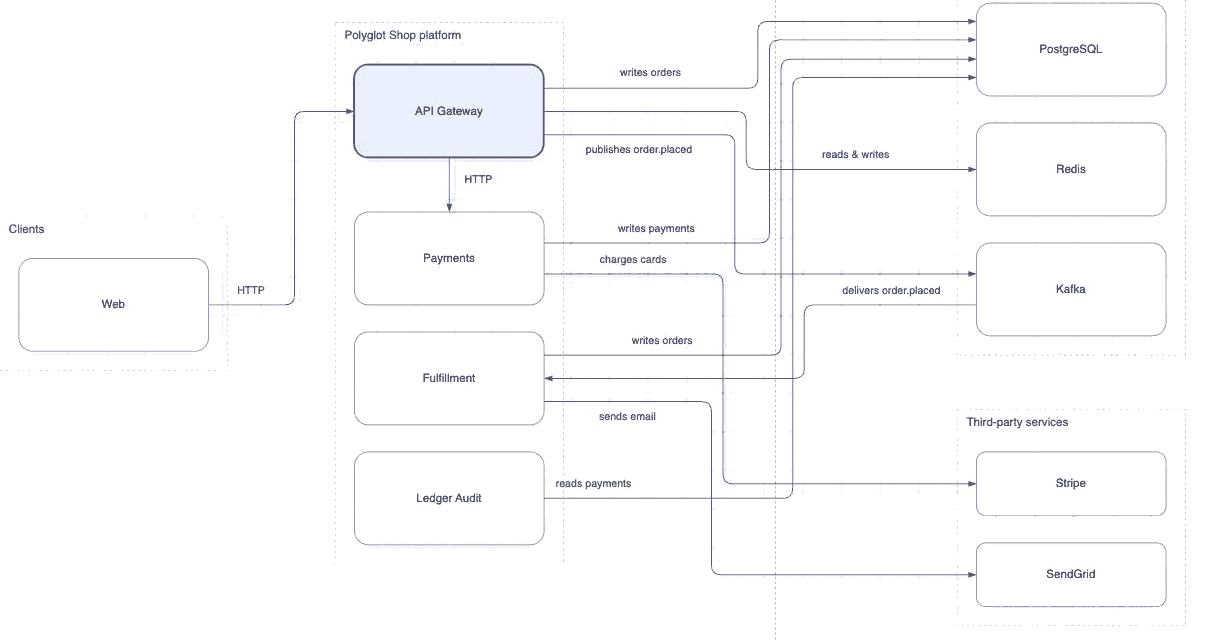
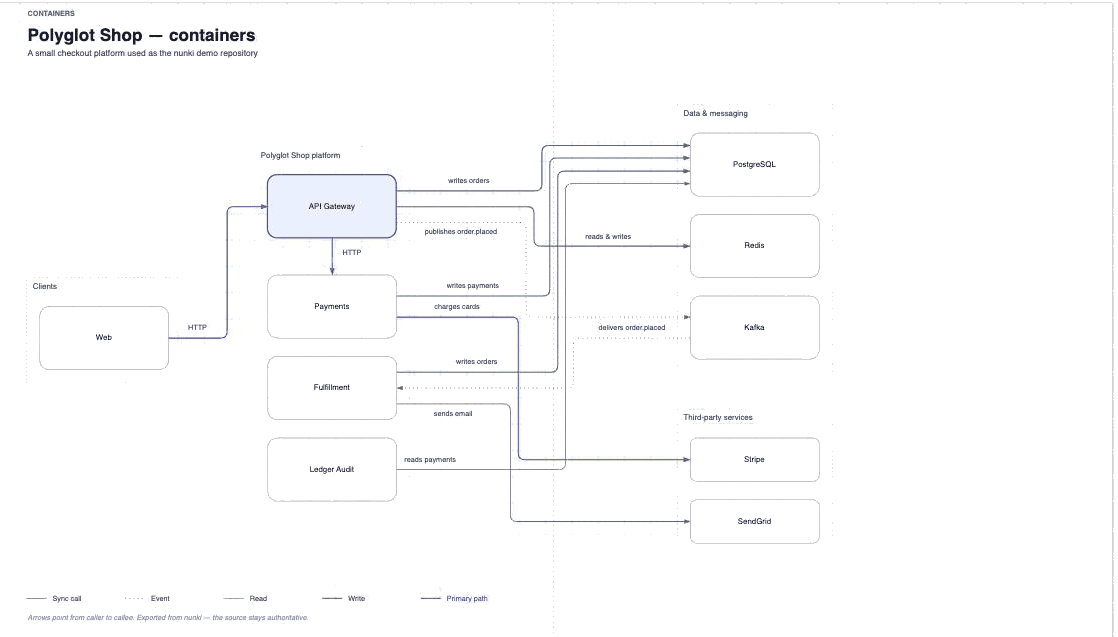
Carry the legend and the title into the draw.io export
Review feedback on the exported diagram: the purple is unexplained, the line
styles are undecodable, and there is no title. All three were information the
book already had and the exporter threw away.

The book draws a legend under every figure — Sync call, Event, Read, Write,
Primary path — and a title block above it, and the layout already reserves the
space for both. The export emitted neither, so a reader got an accent colour
and five line weights with nothing to decode them with.

Now carried over:

- The title, subtitle and an eyebrow, in the space the layout reserves.
- A legend with a sample of each edge kind actually present in the diagram,
  plus the accent swatch when there is a primary path.
- Per-kind stroke styling matching the book: an event is dotted, a write is
  heavier, a read lighter, an async call dashed. The first version flattened all
  of them to one grey line, which is what made "reads payments" and "publishes
  order.placed" look like the same kind of relationship.
- A one-line note that arrows point from caller to callee. Without it
  "Ledger Audit → PostgreSQL: reads payments" is ambiguous: it could be read as
  data moving that way rather than a call being made that way.

Verified by loading the generated file into draw.io — title, subtitle, five
legend samples, the accent swatch and the convention note all render, and
events come through dotted.

`text_cell` takes a struct because clippy counted nine arguments.

diff --git a/crates/renderer/src/drawio.rs b/crates/renderer/src/drawio.rs
@@ -19,7 +19,7 @@ use nunki_ir::{DiagramIR, EdgeStyle, EdgeType, Evidence};
 
 use std::collections::BTreeMap;
 
-use crate::layout::{self, Rect};
+use crate::layout::{self, Rect, MARGIN};
 
 /// A CSV field: quoted when it has to be, escaped the way RFC 4180 says.
 fn field(v: &str) -> String {
@@ -62,15 +62,39 @@ fn shape_style(focal: bool) -> String {
     )
 }
 
+/// Stroke pattern and weight per edge kind, matching the book's legend: an
+/// event is dotted, a write is heavier, an async call is dashed. Flattening
+/// these to one grey line — as the first version did — throws away the only
+/// thing that distinguishes "reads payments" from "publishes order.placed".
+fn dash_for(kind: EdgeType) -> (&'static str, f64) {
+    match kind {
+        EdgeType::Async => ("6 4", 1.25),
+        EdgeType::Event => ("1 4", 1.25),
+        EdgeType::Write => ("none", 1.7),
+        EdgeType::Read => ("none", 1.1),
+        _ => ("none", 1.25),
+    }
+}
+
+fn edge_dash(e: &nunki_ir::Edge) -> (&'static str, f64) {
+    if matches!(e.style, Some(EdgeStyle::Dashed)) {
+        return ("6 4", 1.25);
+    }
+    dash_for(e.edge_type)
+}
+
 fn edge_style(e: &nunki_ir::Edge) -> String {
-    let dashed = matches!(e.style, Some(EdgeStyle::Dashed)) || matches!(e.edge_type, EdgeType::Async);
-    let color = if e.is_primary_path == Some(true) { "#4f46e5" } else { "#64748b" };
+    let (dash, width) = edge_dash(e);
+    let primary = e.is_primary_path == Some(true);
+    let color = if primary { "#4f46e5" } else { "#64748b" };
+    let dashed = u8::from(dash != "none");
+    let pattern = if dash == "none" { String::new() } else { format!("dashPattern={dash};") };
     // A white label background, or several edges leaving one node print their
     // labels over each other and over the node's own name.
     format!(
-        "edgeStyle=orthogonalEdgeStyle;rounded=1;html=1;strokeColor={color};dashed={};endArrow=blockThin;\
-         endFill=1;labelBackgroundColor=#ffffff;fontSize=11;fontColor=#475569;",
-        u8::from(dashed)
+        "edgeStyle=orthogonalEdgeStyle;rounded=1;html=1;strokeColor={color};dashed={dashed};{pattern}\
+         strokeWidth={};endArrow=blockThin;endFill=1;labelBackgroundColor=#ffffff;fontSize=11;fontColor=#475569;",
+        if primary { width.max(1.7) } else { width }
     )
 }
 
@@ -267,6 +291,33 @@ fn midpoint(points: &[(f64, f64)]) -> (f64, f64) {
     *points.last().unwrap()
 }
 
+/// A non-connectable text cell: the title, the legend labels, the caption.
+struct Text<'a> {
+    id: &'a str,
+    at: Rect,
+    size: f64,
+    /// draw.io's `fontStyle` bitfield: 1 bold, 2 italic.
+    weight: &'a str,
+    color: &'a str,
+    value: &'a str,
+}
+
+fn text_cell(t: Text<'_>) -> String {
+    let Text { id, at, size, weight, color, value: v } = t;
+    let (x, y, w, h) = (at.x, at.y, at.w, at.h);
+    format!(
+        "        <mxCell id=\"{id}\" value=\"{}\" style=\"text;html=1;strokeColor=none;fillColor=none;\
+         align=left;verticalAlign=middle;whiteSpace=wrap;fontSize={size};fontColor={color};fontStyle={weight};\
+         movable=1;resizable=1;connectable=0;\" vertex=\"1\" parent=\"1\">\n          \
+         <mxGeometry x=\"{}\" y=\"{}\" width=\"{}\" height=\"{}\" as=\"geometry\" />\n        </mxCell>\n",
+        xml(v),
+        x.round() as i64,
+        y.round() as i64,
+        w.round() as i64,
+        h.round() as i64
+    )
+}
+
 /// The diagram as a draw.io file: `.drawio` XML, opened by double-clicking.
 ///
 /// The CSV import cannot carry a route or a label position, so draw.io re-routes
@@ -382,6 +433,108 @@ pub fn to_xml(ir: &DiagramIR, permalink: &dyn Fn(&Evidence) -> Option<String>) -
             offset.0, offset.1
         ));
     }
+
+    // The book puts a title above the figure and a legend below it, and the
+    // layout already reserves the space for both. Dropping them — as the first
+    // version did — left a reader with an accent colour and five line styles
+    // and nothing to decode them with.
+    out.push_str(&text_cell(Text {
+        id: "autodoc-eyebrow",
+        at: Rect { x: MARGIN, y: 4.0, w: 400.0, h: 20.0 },
+        size: 11.0,
+        weight: "1",
+        color: "#64748b",
+        value: "CONTAINERS",
+    }));
+    out.push_str(&text_cell(Text {
+        id: "autodoc-title",
+        at: Rect { x: MARGIN, y: 30.0, w: l.width - 2.0 * MARGIN, h: 34.0 },
+        size: 26.0,
+        weight: "1",
+        color: "#0f172a",
+        value: &ir.title,
+    }));
+    if let Some(sub) = &ir.subtitle {
+        out.push_str(&text_cell(Text {
+            id: "autodoc-subtitle",
+            at: Rect { x: MARGIN, y: 62.0, w: l.width - 2.0 * MARGIN, h: 24.0 },
+            size: 13.0,
+            weight: "0",
+            color: "#475569",
+            value: sub,
+        }));
+    }
+
+    let mut kinds: Vec<(EdgeType, &str)> = Vec::new();
+    for (t, label) in [
+        (EdgeType::Sync, "Sync call"),
+        (EdgeType::Async, "Async"),
+        (EdgeType::Event, "Event"),
+        (EdgeType::Read, "Read"),
+        (EdgeType::Write, "Write"),
+    ] {
+        if ir.edges.iter().any(|e| e.edge_type == t) {
+            kinds.push((t, label));
+        }
+    }
+    let ly = l.legend_top;
+    let mut lx = MARGIN;
+    for (t, label) in kinds {
+        let (dash, width) = dash_for(t);
+        let pattern = if dash == "none" { String::new() } else { format!("dashPattern={dash};") };
+        out.push_str(&format!(
+            "        <mxCell id=\"autodoc-lg{}\" style=\"endArrow=none;html=1;strokeColor=#64748b;dashed={};\
+             {pattern}strokeWidth={width};connectable=0;\" edge=\"1\" parent=\"1\">\n          \
+             <mxGeometry relative=\"1\" as=\"geometry\"><mxPoint x=\"{}\" y=\"{}\" as=\"sourcePoint\" />\
+             <mxPoint x=\"{}\" y=\"{}\" as=\"targetPoint\" /></mxGeometry>\n        </mxCell>\n",
+            label.replace(' ', ""),
+            u8::from(dash != "none"),
+            lx.round() as i64,
+            (ly + 24.0).round() as i64,
+            (lx + 30.0).round() as i64,
+            (ly + 24.0).round() as i64
+        ));
+        out.push_str(&text_cell(Text {
+            id: &format!("autodoc-lgt{}", label.replace(' ', "")),
+            at: Rect { x: lx + 38.0, y: ly + 14.0, w: 90.0, h: 20.0 },
+            size: 11.0,
+            weight: "0",
+            color: "#475569",
+            value: label,
+        }));
+        lx += 150.0;
+    }
+    if ir.edges.iter().any(|e| e.is_primary_path == Some(true)) {
+        out.push_str(&format!(
+            "        <mxCell id=\"autodoc-lgprim\" style=\"endArrow=none;html=1;strokeColor=#4f46e5;\
+             strokeWidth=1.7;connectable=0;\" edge=\"1\" parent=\"1\">\n          <mxGeometry relative=\"1\" \
+             as=\"geometry\"><mxPoint x=\"{}\" y=\"{}\" as=\"sourcePoint\" /><mxPoint x=\"{}\" y=\"{}\" \
+             as=\"targetPoint\" /></mxGeometry>\n        </mxCell>\n",
+            lx.round() as i64,
+            (ly + 24.0).round() as i64,
+            (lx + 30.0).round() as i64,
+            (ly + 24.0).round() as i64
+        ));
+        out.push_str(&text_cell(Text {
+            id: "autodoc-lgtprim",
+            at: Rect { x: lx + 38.0, y: ly + 14.0, w: 110.0, h: 20.0 },
+            size: 11.0,
+            weight: "0",
+            color: "#4f46e5",
+            value: "Primary path",
+        }));
+    }
+    // An arrow is a call, not a pipe. Without this a reader cannot tell whether
+    // "Ledger Audit → PostgreSQL: reads payments" means the audit service calls
+    // the database or the rows travel that way.
+    out.push_str(&text_cell(Text {
+        id: "autodoc-convention",
+        at: Rect { x: MARGIN, y: ly + 44.0, w: l.width - 2.0 * MARGIN, h: 20.0 },
+        size: 11.0,
+        weight: "2",
+        color: "#94a3b8",
+        value: "Arrows point from caller to callee. Exported from nunki — the source stays authoritative.",
+    }));
 
     out.push_str("      </root>\n    </mxGraphModel>\n  </diagram>\n</mxfile>\n");
     out
